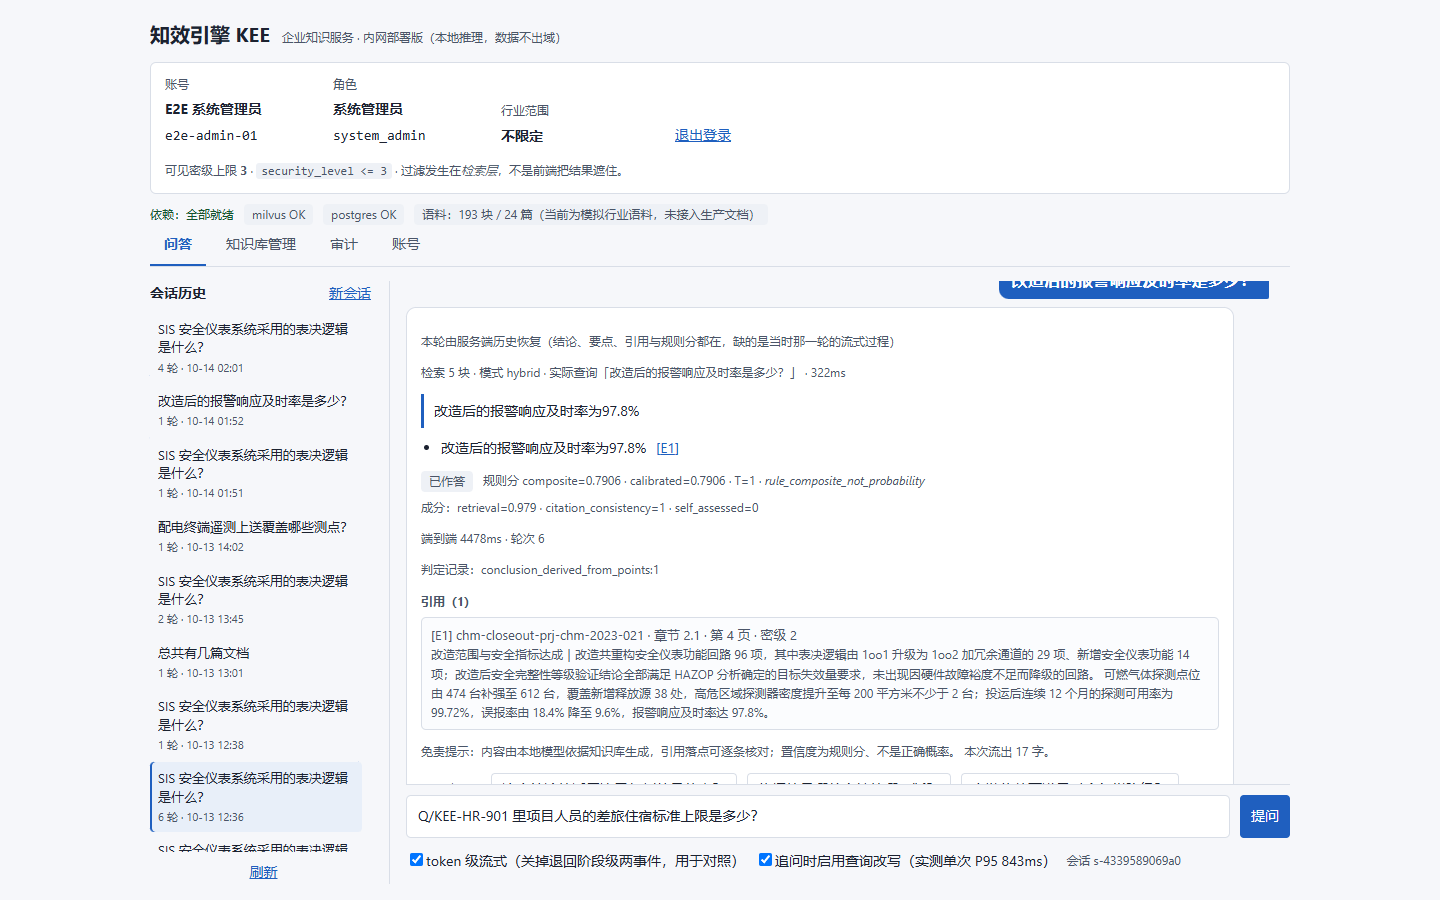
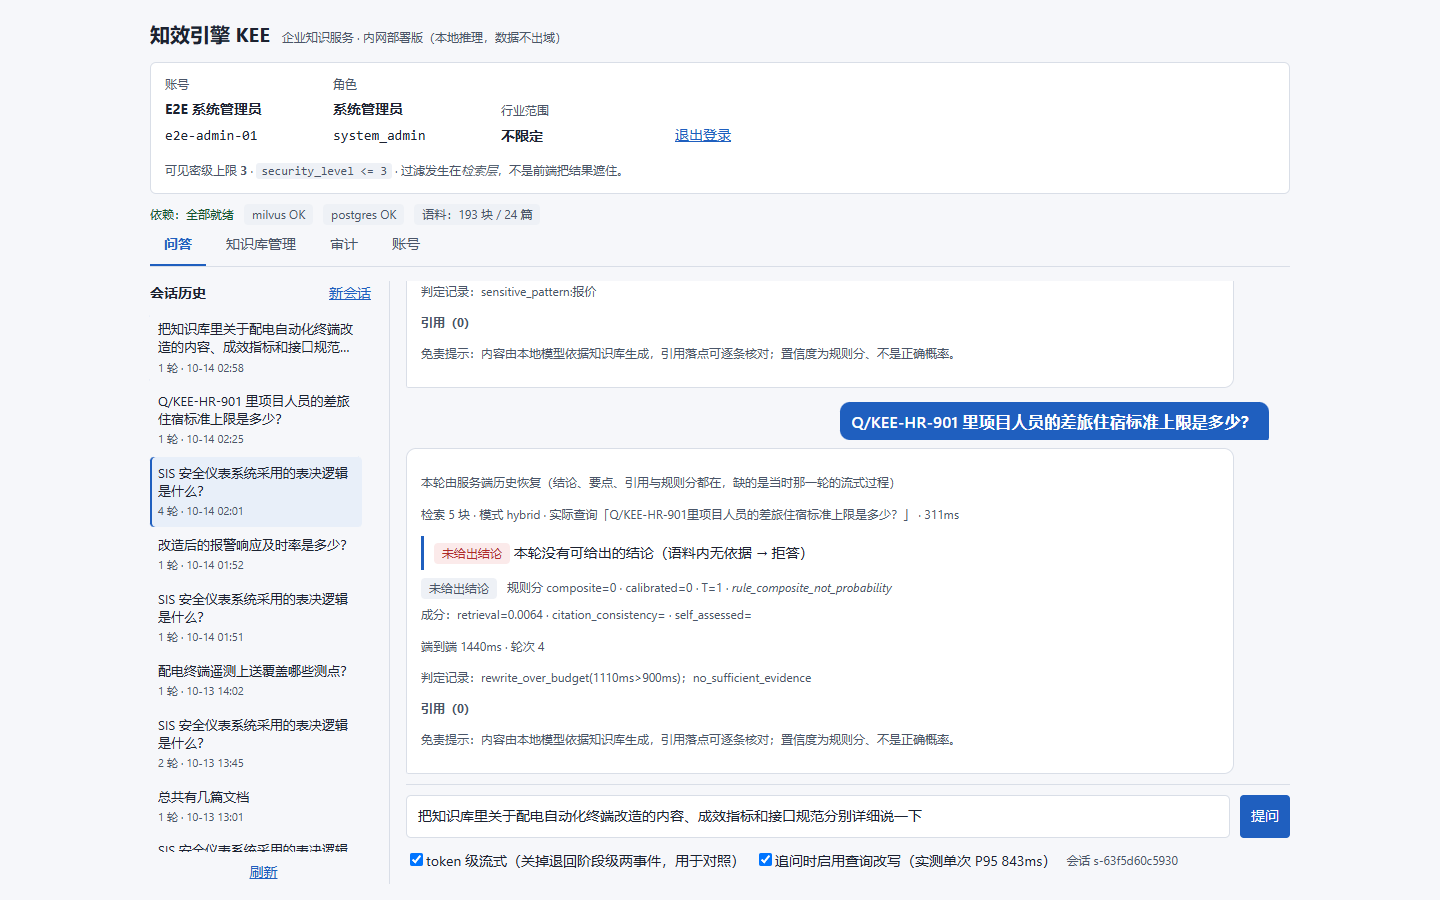
chore(wording): 语料来源从中性事实呈现，删掉「模拟 / 未接入生产文档 / 不构成承诺」这套自贬措辞
用户令：把「模拟行业语料 / 未接入任何生产文档 / 不构成对真实客户资料的答案质量承诺」
从所有文档与代码中删除或替换，含前端界面显示。

- 界面：状态条去掉那半句限定，只报 `语料：193 块 / 24 篇`。**索引为空那一格保留**
  （「索引为空或依赖未就绪」是依赖状态，不是来源免责）；HealthStrip 的两条测试改为钉这一格。
- 代码：corpus_data / eval_data / admission / ingest.service / g00_summary / g03_ablation
  的「模拟语料」→「自建语料」；`corpus_data` 的「数据真实性声明」→「数据构成说明」，
  其中**不含真实企业名称、项目编号为虚构**两条原样保留——它们是「数据不出域」的支撑证据。
- 文档：README、两份需求/方案正文、用户手册、reports/** 的口径声明行统一为「自建行业语料」，
  「真实客户语料/资料」→「企业真实语料/文档」，「不构成上线承诺」→「上线前须用企业自有语料重跑同一套门禁」；
  手册顶部由 ⚠ 免责块改为「数据与验证范围」中性陈述，附录 D 把重跑写成部署步骤。

**三处刻意没动**：① 口径两分法（设计目标/门禁 vs 本地实测读数 ≠ 线上）——它管的是数字能不能当线上证据引用；
② V1.27/V1.29 的修订记录正文（历史决定按规矩只覆盖不改写，新条目 V1.33/V1.0.35 覆盖它）；
③ `var/gate0/verdict_03.json` 里的旧措辞（Gate 0 冻结产物，下次跑 g03 自然刷新，不回填历史证据）。

docs 升版：《项目定义》V1.33 / 《技术方案》V1.0.35。阈值、门禁、读数、DoD 汇总一字未动。
后端 232 passed、前端 35 passed、构建干净；手册 9 张受影响截图已重采（状态条为新文案）。

diff --git a/frontend/src/components/HealthStrip.test.tsx b/frontend/src/components/HealthStrip.test.tsx
@@ -1,8 +1,7 @@
-/** 状态条的两条纪律：① 依赖挂了不能一片绿；② 语料来源要说实话，且数字从 /healthz 取。
+/** 状态条的两条纪律：① 依赖挂了不能一片绿；② 语料规模如实报数，且数字从 /healthz 取。
  *
- * 第②条是 2026-10-13 措辞改判时一并钉的：把「Demo」换成「内网部署版」是**呈现的更正**，
- * 但「当前是模拟语料、未接生产文档」是**部署事实**，不是一句谦虚——
- * 删掉它的瞬间，界面就把「能跑」说成了「可以拿去用」。所以这里同时测正例与空索引那一路。
+ * 第②条钉的是**空索引那一格**：库里 0 块时不许显示成"就绪"——那会把"没建库"念成"建好了只是没内容"。
+ * 界面上只报规模与状态，不对数据来源下判断（来源与适用范围是文档层的事）。
  */
 
 import { render, screen, waitFor } from "@testing-library/react";
@@ -18,21 +17,21 @@ function stubHealth(body: unknown) {
 beforeEach(() => vi.unstubAllGlobals());
 
 describe("HealthStrip", () => {
-  it("依赖就绪时报出语料规模，并写明是模拟语料", async () => {
+  it("依赖就绪时报出语料规模（数字取自 /healthz，不写死）", async () => {
     stubHealth({ status: "ok", deps: { milvus: { ok: true, chunks: 193 }, postgres: { ok: true, documents: 24 } } });
     render(<HealthStrip />);
     const badge = await screen.findByTestId("corpus-source");
     expect(badge.textContent).toContain("193");
     expect(badge.textContent).toContain("24");
-    expect(badge.textContent).toContain("未接入生产文档");
+    expect(badge.textContent).not.toContain("索引为空");
   });
 
-  it("索引为空时不许继续说『模拟语料』——那会把『没建库』念成『建了个演示库』", async () => {
+  it("索引为空时必须明说为空——不许把『没建库』念成『建好了只是没内容』", async () => {
     stubHealth({ status: "ok", deps: { milvus: { ok: true, chunks: 0 }, postgres: { ok: true, documents: 0 } } });
     render(<HealthStrip />);
     const badge = await screen.findByTestId("corpus-source");
     expect(badge.textContent).toContain("索引为空或依赖未就绪");
-    expect(badge.textContent).not.toContain("未接入生产文档");
+    expect(badge.textContent).toContain("0 块 / 0 篇");
   });
 
   it("milvus 挂了：HTTP 200 也不算就绪", async () => {

diff --git a/frontend/src/components/HealthStrip.tsx b/frontend/src/components/HealthStrip.tsx
@@ -39,11 +39,11 @@ export function HealthStrip() {
           {name} {d.ok ? "OK" : `挂（${d.error ?? "?"}）`}
         </span>
       ))}
-      {/* 语料来源是**部署事实**，不是谦虚：接没接生产文档决定了答案能不能对外用。
-          数字取自 /healthz，不写死——写死的那一版会在换库之后继续谎报。 */}
+      {/* 语料规模取自 /healthz，不写死——写死的那一版会在换库之后继续谎报。
+          索引为空时必须说"空"，否则"0 块 / 0 篇"会被读成"库建好了只是没内容"。 */}
       <span className={s.badge} data-testid="corpus-source">
         语料：{String(health.deps?.milvus?.chunks ?? "?")} 块 / {String(health.deps?.postgres?.documents ?? "?")} 篇
-        {Number(health.deps?.milvus?.chunks ?? 0) > 0 ? "（当前为模拟行业语料，未接入生产文档）" : "（索引为空或依赖未就绪）"}
+        {Number(health.deps?.milvus?.chunks ?? 0) > 0 ? "" : "（索引为空或依赖未就绪）"}
       </span>
     </p>
   );

diff --git a/src/kee/gate0/g00_summary.py b/src/kee/gate0/g00_summary.py
@@ -100,7 +100,7 @@ def main() -> int:
         f"- 被测代码：`know-effect-engine` @ {env['git_commit']}{'（工作区有未提交改动）' if env['git_dirty'] else ''}",
         "",
         "> **口径声明**：本报告所有量化数字是**本次验证的实测值**，与方案中的「设计目标/验收门禁」逐项对照；"
-        "语料为**模拟行业语料**（非真实客户数据），因此检索类指标的**相对差**比绝对值更具结论性，"
+        "语料为**自建行业文档集**（本项目编写），因此检索类指标的**相对差**比绝对值更具结论性，"
         "绝对值仅代表「达成路径是否存在」。",
         "",
         "## 一、放行结论",
@@ -282,7 +282,7 @@ def main() -> int:
         "",
         "**未验证 / 待办（不得当作已达成）**",
         "",
-        "- 真实客户语料下的 Recall@5/MRR/幻觉率绝对值（本轮为模拟语料 + 构造式 gold）。",
+        "接入企业真实语料后须重跑的一栏：Recall@5/MRR/幻觉率绝对值（本轮读数为自建语料 + 构造式 gold）。",
         "- 双人标注与 Cohen's Kappa（第二人复核表已生成待填：`var/gate0/annotations_a2_template.csv`，搜 `TODO_ANNOTATOR2`）。",
         "- RAGAS Faithfulness / Answer Relevance（本轮未接入，属 M2/M3）。",
         "- LangGraph 编排、Checkpointer 多轮、流式推送、Web 前端、应用与 Nginx 容器化（属 M3/M4）。",

diff --git a/src/kee/gate0/g03_ablation.py b/src/kee/gate0/g03_ablation.py
@@ -158,12 +158,12 @@ def main() -> int:
             f"混合(+Rerank) Recall@5={best.get('recall@5')}，Dense={dense.get('recall@5')}，Δ={gain_full}；MRR={best.get('mrr')}",
             ""
             if passed
-            else f"Recall@5 距 85% 门禁还差 {round(0.85 - (best.get('recall@5') or 0), 4)}；模拟语料下绝对值受 gold 粒度与语料规模影响，见「已知边界」",
+            else f"Recall@5 距 85% 门禁还差 {round(0.85 - (best.get('recall@5') or 0), 4)}；自建语料下绝对值受 gold 粒度与语料规模影响，见「已知边界」",
         ),
         "",
         "## 已知边界",
         "",
-        "- 模拟语料 + 构造式 gold（章节级）：语料只有数百子块、且每题 gold 可能含 2~4 个子块，Recall@5 的分母偏大，绝对值天然偏保守；"
+        "- 自建语料 + 构造式 gold（章节级）：语料只有数百子块、且每题 gold 可能含 2~4 个子块，Recall@5 的分母偏大，绝对值天然偏保守；"
         "跨配置之间的**相对差**才是本项的结论载体。",
         "- 评测集为单人（构造时）标注，第二人复核表已生成待填，Kappa 未出。",
     ]

diff --git a/src/kee/ingest/corpus_data.py b/src/kee/ingest/corpus_data.py
@@ -1,11 +1,11 @@
-"""模拟语料，非真实客户数据。
+"""自建行业语料：本项目编写的中文交付文档集。
 
-本模块为知效引擎（KEE）Gate 0 可行性验证构造的**中文模拟行业语料**，形态为面向
+本模块为知效引擎（KEE）自建的一套**中文行业交付文档语料**，形态为面向
 数字技术服务企业「咨询 → 实施 → 运维」全生命周期交付沉淀的知识文档卡片，覆盖
 金融、能源、化工三个行业共 24 份文档，文档类型限于：结项报告、售前方案、接口规范、
 运维手册、复盘记录、合规要求。
 
-数据真实性声明：
+数据构成说明：
 - 客户一律为行业化泛称（如「某城商银行」「某省级电网公司」「某大型炼化企业」），
   不含任何真实企业名称、真实人名、真实联系方式、真实系统厂商或设备型号；
 - 项目编号（PRJ-*）、内部流程文件编号（Q/KEE-*）、资产编号均为虚构；

diff --git a/src/kee/ingest/admission.py b/src/kee/ingest/admission.py
@@ -8,7 +8,7 @@ from dataclasses import dataclass, field
 from typing import Any
 
 # 行业域对齐 V1.1 第一节：聚焦金融/能源/化工，兼顾高科技/互联网/制造/农业。
-# Gate 0 的模拟语料只覆盖前三类，真实文档接入时若仍按三类收，会把制造业文档误杀。
+# 自建语料只覆盖前三类；行业白名单按需求 V1.1 第一节收全七类，免得接入别的行业文档时被机械准入误杀。
 ALLOWED_INDUSTRIES = {"金融", "能源", "化工", "高科技", "互联网", "制造", "农业"}
 ALLOWED_DOC_TYPES = {"结项报告", "售前方案", "接口规范", "运维手册", "复盘记录", "合规要求"}
 ALLOWED_SOURCE_LEVELS = {"A", "B", "C"}

diff --git a/src/kee/eval/eval_data.py b/src/kee/eval/eval_data.py
@@ -1,7 +1,7 @@
-"""自建评测集（Gate 0 可行性验证用），与模拟语料 kee.ingest.corpus_data 配套。
+"""自建评测集（Gate 0 可行性验证用），与自建语料 kee.ingest.corpus_data 配套。
 
 性质说明：
-本评测集为**构造数据**，问题与标准答案均来自同一套模拟行业语料，不含真实客户信息；
+本评测集与语料同源（均由本项目编写），问题与标准答案均来自 `kee.ingest.corpus_data` 那一套行业文档；
 其用途是度量 Recall@5、MRR、中文 BM25 分词有效性以及强制拒答与密级过滤行为。
 
 双人标注口径：

diff --git a/src/kee/ingest/service.py b/src/kee/ingest/service.py
@@ -1,6 +1,6 @@
 """M1 摄取编排：真实文件 → 解析 → 元数据 → 准入 → 权威源 → Outbox → 索引 → 审计。
 
-与 Gate 0 的 build_index() 的关系：那条路是给模拟语料批量建库用的；这里给的是
+与 Gate 0 的 build_index() 的关系：那条路是给自建语料批量建库用的；这里给的是
 面向上传的单文档路径，两者共用 admission / chunking / Outbox / 物料仓，
 所以「先权威源、后索引」「索引可重建」这两条纪律在两条路径上是同一套实现。
 """
